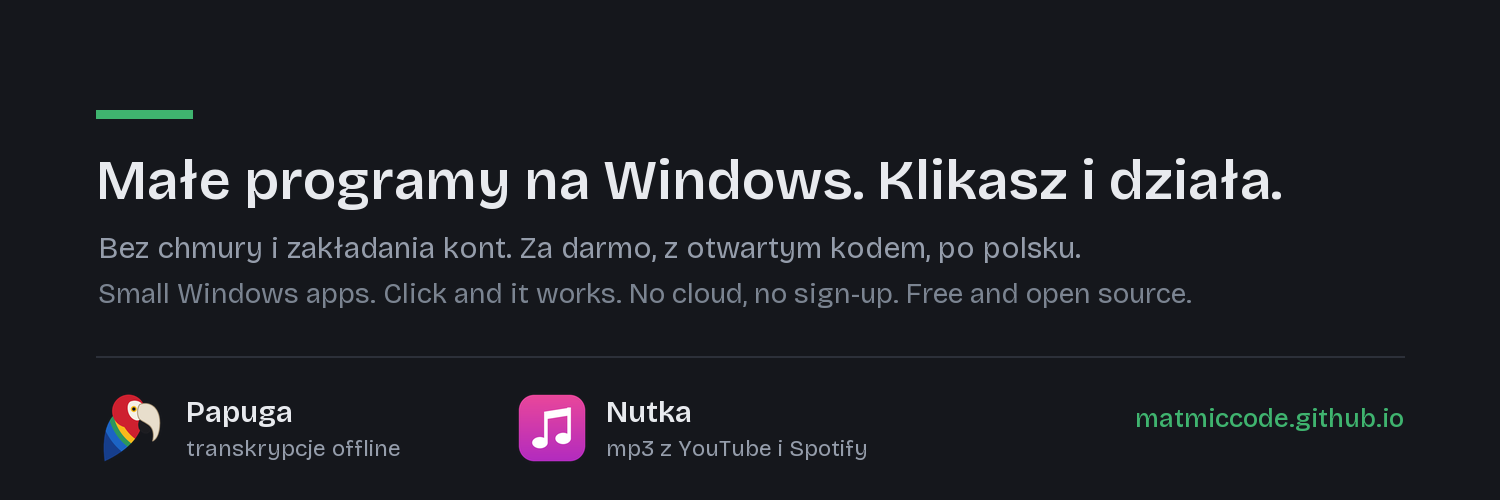
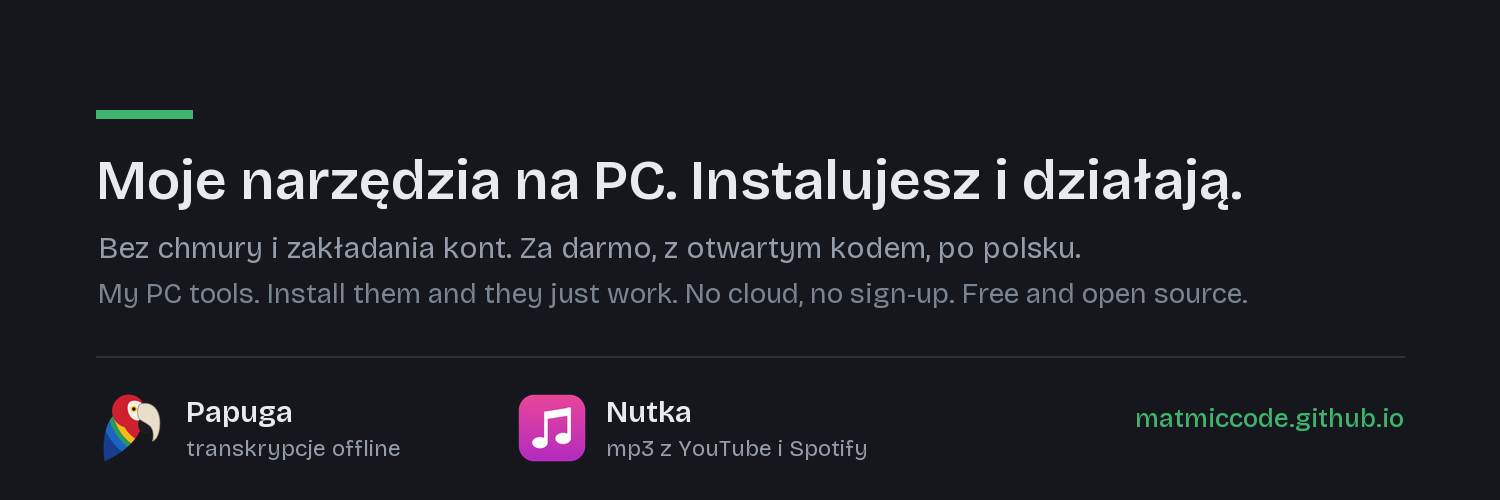
Hasło marki w słowach autora: „Moje narzędzia na PC. Instalujesz i działają. Bez chmury i zakładania kont.”
Hub (h1, meta), obie okładki przegenerowane, teksty i bio w marka/teksty-buycoffee.md.

Changed region(s): [[0.092, 0.3, 0.8587, 0.42], [0.0613, 0.57, 0.828, 0.63]]

diff --git a/index.html b/index.html
@@ -4,7 +4,7 @@
 <meta charset="utf-8">
 <meta name="viewport" content="width=device-width, initial-scale=1">
 <title>MATCODE</title>
-<meta name="description" content="Małe programy na Windows. Klikasz i działa. Bez chmury i zakładania kont. Za darmo, z otwartym kodem.">
+<meta name="description" content="Moje narzędzia na PC. Instalujesz i działają. Bez chmury i zakładania kont. Za darmo, z otwartym kodem.">
 <link rel="icon" href="marka/znak-kwadrat.svg" type="image/svg+xml">
 <link rel="icon" href="img/matcode-256.png" type="image/png" sizes="256x256">
 <link rel="preconnect" href="https://fonts.googleapis.com">
@@ -35,7 +35,7 @@
 <main>
 
 <section class="wrap hero">
-  <h1>Małe programy na Windows. Klikasz i&nbsp;działa.</h1>
+  <h1>Moje narzędzia na PC. Instalujesz i&nbsp;działają.</h1>
   <p class="lead">Bez chmury i&nbsp;zakładania kont. Za darmo, z&nbsp;otwartym kodem, po polsku.</p>
 </section>
 

diff --git a/marka/generuj.py b/marka/generuj.py
@@ -20,9 +20,9 @@ FONT = Path(os.environ.get("TEMP", TU)) / "BricolageGrotesque.ttf"
 GRAFIT, POWIERZCHNIA, LINIA, TEKST, SZARY = "#15171c", "#1d2026", "#2c3039", "#e8eaee", "#959dab"
 SZARY_EN = "#7b8491"   # angielska linia pod polską: o stopień ciszej
 PIERSCIEN = "#e8eaee"  # jasny pierścień awatara na ciemne tła
-HASLO_PL = "Małe programy na Windows. Klikasz i działa."
+HASLO_PL = "Moje narzędzia na PC. Instalujesz i działają."
 HASLO_PL_2 = "Bez chmury i zakładania kont. Za darmo, z otwartym kodem, po polsku."
-HASLO_EN = "Small Windows apps. Click and it works. No cloud, no sign-up. Free and open source."
+HASLO_EN = "My PC tools. Install them and they just work. No cloud, no sign-up. Free and open source."
 ZIELEN = "#3fb46f"
 JASNA = ("#6fd392", "#3fb46f")   # ściana lewa: góra -> dół
 CIEMNA = ("#2f9a5e", "#1f6b42")  # ściana prawa

diff --git a/marka/teksty-buycoffee.md b/marka/teksty-buycoffee.md
@@ -9,14 +9,15 @@ MATCODE
 
 ## Hasło (hub `index.html`, okładki w `generuj.py`, bio GitHub)
 
-PL: Małe programy na Windows. Klikasz i działa. Bez chmury i zakładania kont.
-EN: Small Windows apps. Click and it works. No cloud, no sign-up.
+PL: Moje narzędzia na PC. Instalujesz i działają. Bez chmury i zakładania kont.   (słowa użytkownika, 2026-10-08; „małe” i „darmowe” odrzucone)
+EN: My PC tools. Install them and they just work. No cloud, no sign-up.
 
-Okładki: wiersz 1 „Małe programy na Windows. Klikasz i działa.”, wiersz 2 „Bez chmury i zakładania kont. Za darmo, z otwartym kodem, po polsku.”
+Okładki: wiersz 1 „Moje narzędzia na PC. Instalujesz i działają.”, wiersz 2 „Bez chmury i zakładania kont. Za darmo, z otwartym kodem, po polsku.”,
+wiersz 3 (EN, ciszej) „My PC tools. Install them and they just work. No cloud, no sign-up. Free and open source.”
 
-## Bio GitHub (137 znaków, limit 160)
+## Bio GitHub (limit 160 znaków)
 
-Małe programy na Windows. Klikasz i działa. Bez chmury i zakładania kont. · Small Windows apps. Click and it works. No cloud, no sign-up.
+Moje narzędzia na PC. Instalujesz i działają. Bez chmury i zakładania kont. · My PC tools. Install them and they just work. No cloud, no sign-up.
 
 ## Opis na buycoffee („Dlaczego warto Cię wesprzeć?”, limit 2000 znaków)
 
